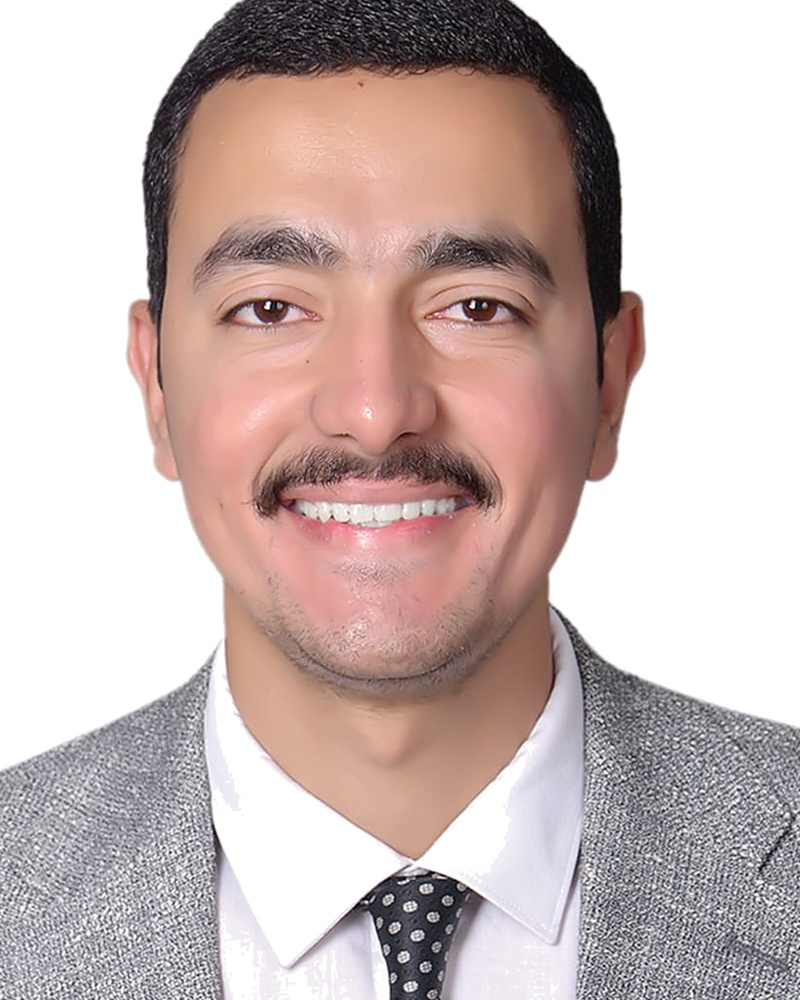
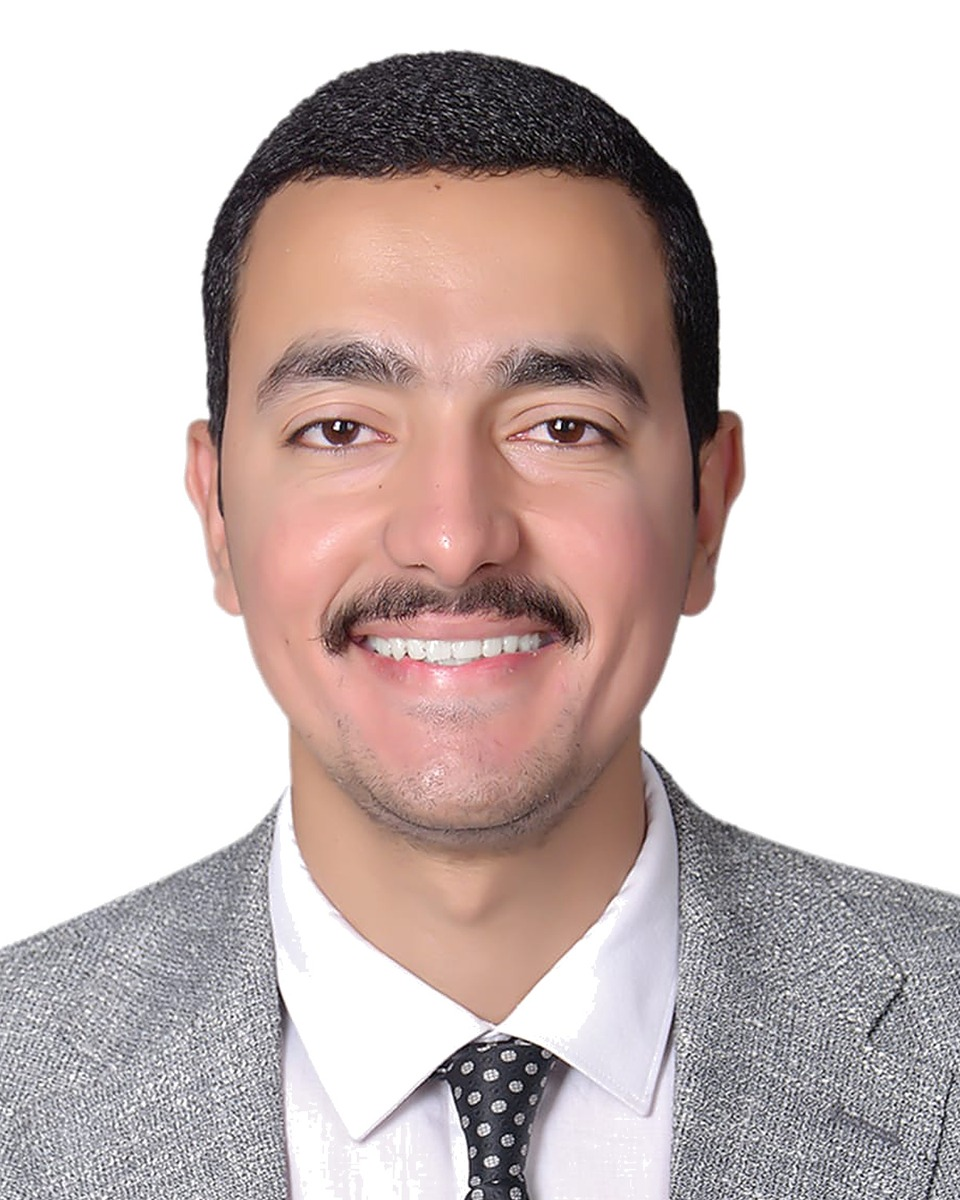
Card page: larger portrait photo
Claude-Session: https://claude.ai/code/session_01DYPr8JGLgXXo6GcAT4YKJq

diff --git a/card/index.html b/card/index.html
@@ -8,7 +8,7 @@ body{min-height:100vh;font-family:Inter,system-ui,-apple-system,"Segoe UI",Robot
  background:radial-gradient(120% 90% at 100% 100%,#5b78ff 0%,#2f4be0 35%,#1b2bb8 65%,#0d1570 100%);
  display:flex;align-items:center;justify-content:center;padding:24px}
 .box{width:100%;max-width:420px;background:#fff;border-radius:20px;padding:32px 24px 24px;text-align:center;box-shadow:0 20px 60px rgba(0,0,30,.35)}
-img.p{width:112px;height:112px;border-radius:50%;object-fit:cover;object-position:50% 22%;border:4px solid #eef0ff;margin-bottom:16px}
+img.p{display:block;width:100%;max-width:300px;aspect-ratio:4/5;margin:0 auto 20px;border-radius:16px;object-fit:cover;object-position:50% 30%;box-shadow:0 10px 30px rgba(20,30,110,.25)}
 h1{font-size:22px;letter-spacing:.3px}
 .t{color:#5a5f80;font-size:14px;margin-top:6px;line-height:1.5}
 .tag{display:inline-block;margin-top:12px;background:#eef0ff;color:#1f2fc4;font-size:12px;font-weight:600;padding:5px 12px;border-radius:99px}
